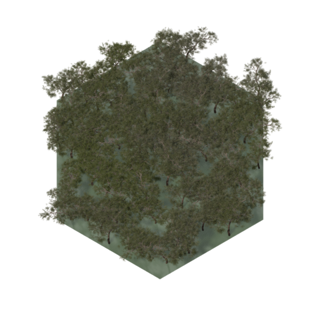
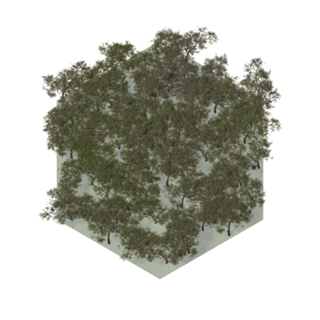
Visuals round 2 pass 2, features: brighter forest canopies, mountain base shadows and per-terrain rock grades

diff --git a/web/static/app.js b/web/static/app.js
@@ -271,12 +271,20 @@ for (const [kind, n] of Object.entries(FEATURE_FILES)) {
   }
 }
 const featureArt = (kind, v) => { if (featurePending) return null; const list = FEATURE_ART[kind].filter((im) => im.naturalWidth); return list.length ? list[v % list.length] : null; };
+// mountain rock graded to its land: warm sandstone in deserts, cold grey under snow
+const MOUNTAIN_GRADE = {
+  desert: "sepia(0.55) saturate(1.5) hue-rotate(-8deg) brightness(1.1)",
+  plains: "sepia(0.2) saturate(1.15) brightness(1.05)",
+  grassland: "saturate(0.9) contrast(1.08)",
+  tundra: "saturate(0.45) brightness(1.08) contrast(1.05)",
+  snow: "saturate(0.25) brightness(1.25) contrast(0.95)",
+};
 // forest tints by climate and season: cold forests turn dark blue-green, a few warm ones autumnal
 function forestFilter(t, variant) {
   if (t.terrain === "tundra" || t.terrain === "snow") return "hue-rotate(28deg) saturate(0.75) brightness(0.82) contrast(1.1)";
-  if (variant === 5 && t.terrain !== "desert") return "hue-rotate(-38deg) saturate(1.9) brightness(1.22)";
-  if (variant === 4) return "hue-rotate(-14deg) saturate(1.6) brightness(1.22)";
-  return "saturate(1.55) hue-rotate(12deg) brightness(1.28) contrast(1.05)";
+  if (variant === 5 && t.terrain !== "desert") return "hue-rotate(-38deg) saturate(1.9) brightness(1.08)";
+  if (variant === 4) return "hue-rotate(-14deg) saturate(1.55) brightness(1.06)";
+  return "saturate(1.5) hue-rotate(12deg) brightness(1.1) contrast(1.08)";
 }
 // hill relief: the rendered grey shading, re-centred on mid-grey so that overlay only lights the
 // slopes facing the sun and shades the rest, with soft edges
@@ -320,8 +328,13 @@ function featureSprite(t, Rb, variant, rendered = false) {
   if (t.feature === "forest") { g.filter = forestFilter(t, variant); if (!art("forest")) { g.filter = "none"; paintForest(g, cx, cy, Rb, rnd, t.terrain); } g.filter = "none"; }
   if (t.feature === "jungle") { g.filter = "saturate(1.7) hue-rotate(18deg) brightness(0.92) contrast(1.1)"; if (!art("jungle")) { g.filter = "none"; paintJungle(g, cx, cy, Rb, rnd); } g.filter = "none"; }
   if (t.elevation === "mountain") {
-    if (t.terrain === "desert") g.filter = "sepia(0.4) saturate(1.3) brightness(1.05)";
     const im = featureArt("mountain", variant);  // rendered with the hex centre 62% down the frame
+    if (im) {  // a soft shadow where the range meets the ground, then the rock graded to its land
+      const sh = g.createRadialGradient(cx + Rb * 0.1, cy + Rb * 0.12, Rb * 0.1, cx + Rb * 0.1, cy + Rb * 0.12, Rb * 0.95);
+      sh.addColorStop(0, "rgba(20,18,14,0.35)"); sh.addColorStop(1, "rgba(20,18,14,0)");
+      g.fillStyle = sh; g.beginPath(); g.ellipse(cx + Rb * 0.1, cy + Rb * 0.12, Rb * 0.95, Rb * 0.5, 0, 0, Math.PI * 2); g.fill();
+      g.filter = MOUNTAIN_GRADE[t.terrain] || "none";
+    }
     if (im) g.drawImage(im, cx - w / 2, cy - w * 0.62, w, w);
     else { g.filter = "none"; paintMountains(g, cx, cy, Rb, rnd, t.terrain); }
     g.filter = "none";

diff --git a/docs/VISUALS_PLAN_2.md b/docs/VISUALS_PLAN_2.md
@@ -70,7 +70,7 @@ scenes for diplomacy (leaders come later, SPEC_M9 steps 4-6).
 ## Pass 2 (improve each, in the same order)
 
 - [x] 1. Terrain textures
-- [ ] 2. Forests, hills, mountains
+- [x] 2. Forests, hills, mountains
 - [ ] 3. Borders and farms
 - [ ] 4. Cities
 - [ ] 5. Units
@@ -86,3 +86,4 @@ scenes for diplomacy (leaders come later, SPEC_M9 steps 4-6).
 - 5 Units: formations as in Civ, figures in staggered ranks: infantry 8, tanks, guns and hover tanks 3, walkers 2, drones 4, small aliens 6, warriors 5, spitters 3, brutes 2. Figures are smaller and the base ellipse fits the formation. The flag above each unit is now Civ's style: a disc in the owner's colour (red for aliens) with a dark rim, a pale inner ring and a white class icon, plus the type code, health and promotions as before. The selected unit stands in a pulsing gold ring on the ground, and the old hex outline pulse is kept. Still weak: flags are discs only (Civ varies the shape); no unit facing; formations do not thin out as units take damage.
 - 6 Layout: Civ's corners. The unit panel now sits at the bottom left with the unit's render in a big round bronze frame (ringed in the owner's colour) breaking out of the panel; city and turret panels keep the top left. The action button and minimap share one bronze-cornered frame at the bottom right, button above. The top bar is thinner (34 px) and darker. The combat preview (already Civ's structure: outcome banner, strengths with modifiers, HP bars) gets a gilded Cinzel banner and framed sides. Still weak: the action buttons in the unit panel are text, not round icons as in Civ; no left-hand icon strip.
 - P2.1 Terrain: a patchwork layer. Each land hex leans toward one of several shades for its terrain (grassland greens and golds, plains ochres, desert sands, tundra greys), filled per hex, blurred so neighbours blend, and laid in soft-light at 60%. Wide grasslands now read as a quilt, as in the references, without hiding the photo detail. The first build of a screen is about 1.35 s, cached after. Still weak: tones change by whole hexes; Civ also shows field-like streaks inside a hex.
+- P2.2 Features: forests and jungles were re-rendered with a stronger, higher sun, a rim light and a lighter forest floor, so crowns catch the light and the hexes read as canopy rather than dark patches; the client tints were rebalanced to match. Mountains now sit on a soft shadow where they meet the ground and are graded to their land: warm sandstone in the desert, cold grey in tundra, pale in snow. Still weak: forests still fill whole hexes edge to edge (Civ's thin out at the borders); all mountains share one boulder model.
